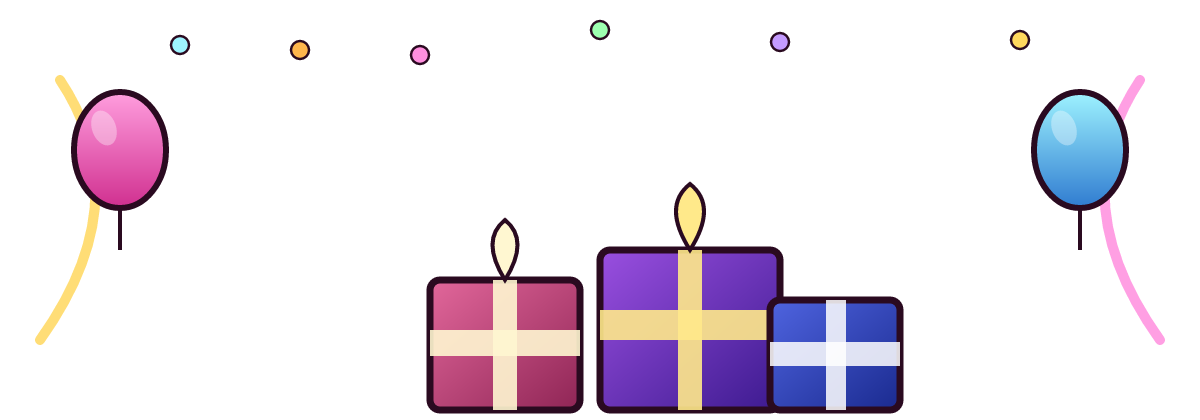
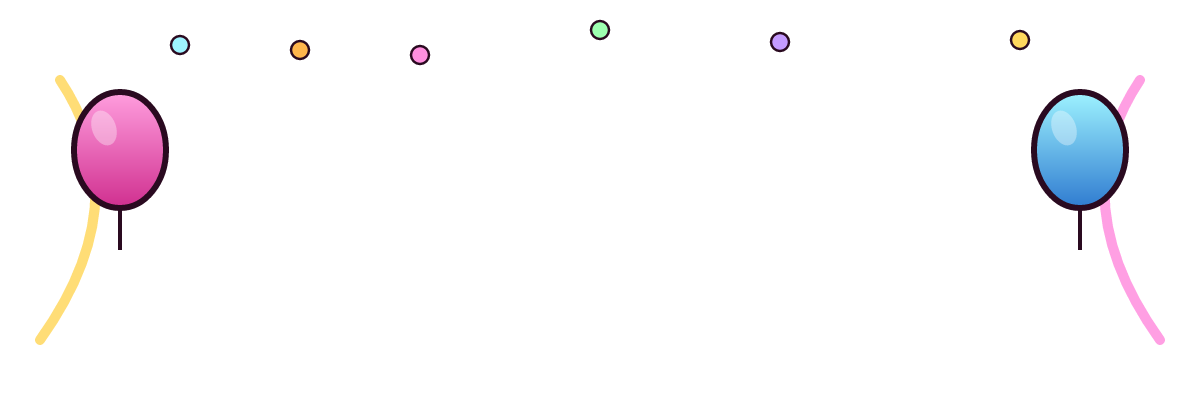
fix(WildParty): 移除堆疊裝飾中間禮物盒+加大金額牌+統一press-anywhere字體風格
- pile.png移除中間3個禮物盒,只留兩側氣球+彩帶,避免視覺上跟中間
  文字/數字搶焦點
- Win.svelte金額讀數牌 8.4/1.9 -> 9.4/2.4 (SYMBOL_SIZE倍數),數字
  周圍留白更充足
- press-anywhere文字改用跟LoadingScreen「WILD PARTY」標題一致的
  風格(米白色實心填色+細白邊,取代原本厚重的深紫描邊+金漸層),
  16種語言都重新驗證過(尤其CJK/阿拉伯文/北印度文這種細筆畫文字)

Changed region(s): [[0.3392, 0.4333, 0.7708, 0.9905]]

diff --git a/apps/WildParty/src/components/Win.svelte b/apps/WildParty/src/components/Win.svelte
@@ -143,8 +143,8 @@
 									<Sprite
 										key="countPlaque"
 										anchor={0.5}
-										width={SYMBOL_SIZE * 8.4}
-										height={SYMBOL_SIZE * 1.9}
+										width={SYMBOL_SIZE * 9.4}
+										height={SYMBOL_SIZE * 2.4}
 									/>
 									<ResponsiveBitmapText
 										anchor={0.5}
